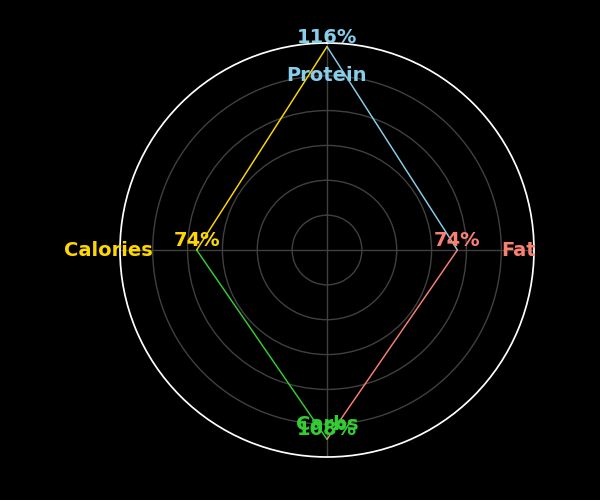
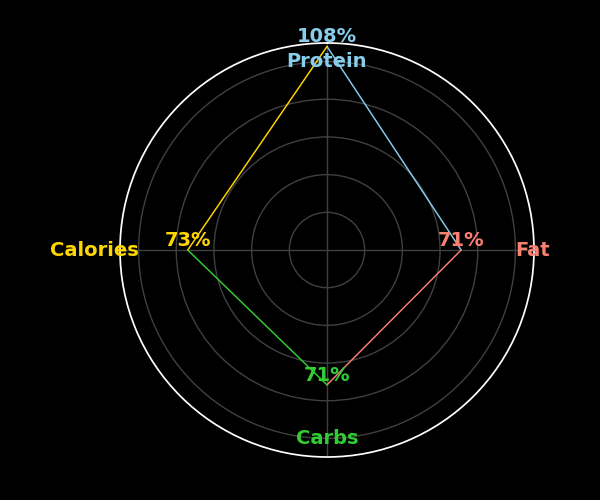
-

diff --git a/spider.py b/spider.py
@@ -4,16 +4,37 @@ import numpy as np
 from utils import calculate_recommended_values_v2
 
 def spider(info, data):
-
+    
+    days = int(info.get('LastDaysAverage', 0))
+    if len(data) > 1:
+        if days <= 0:
+            n = None
+            m = None
+        elif days == 1:
+            n = -1
+            m = None
+        elif days > 1 and days < len(data):
+            n = -days - 1
+            m = -1
+        elif days >= len(data):
+            n = None
+            m = -1
+    elif len(data) <= 1:
+        n = None
+        m = None
+    
+    print(n)
+    print(m)
+    
     # Calculate recommended daily intake for each nutrient
     recommended_protein, recommended_fat, recommended_carbs, recommended_calories = calculate_recommended_values_v2(info)
 
 
     # Calculate the average intake and divide by the recommended value
-    average_protein = data['Proteins'][:-1].mean() / recommended_protein
-    average_fat = data['Fats'][:-1].mean() / recommended_fat
-    average_carbs = data['Carbs'][:-1].mean() / recommended_carbs
-    average_calories = data['Calories'][:-1].mean() / recommended_calories
+    average_protein = data['Proteins'][n:m].mean() / recommended_protein
+    average_fat = data['Fats'][n:m].mean() / recommended_fat
+    average_carbs = data['Carbs'][n:m].mean() / recommended_carbs
+    average_calories = data['Calories'][n:m].mean() / recommended_calories
 
     # The data to plot
     data_to_plot = [average_protein, average_fat, average_carbs, average_calories]
